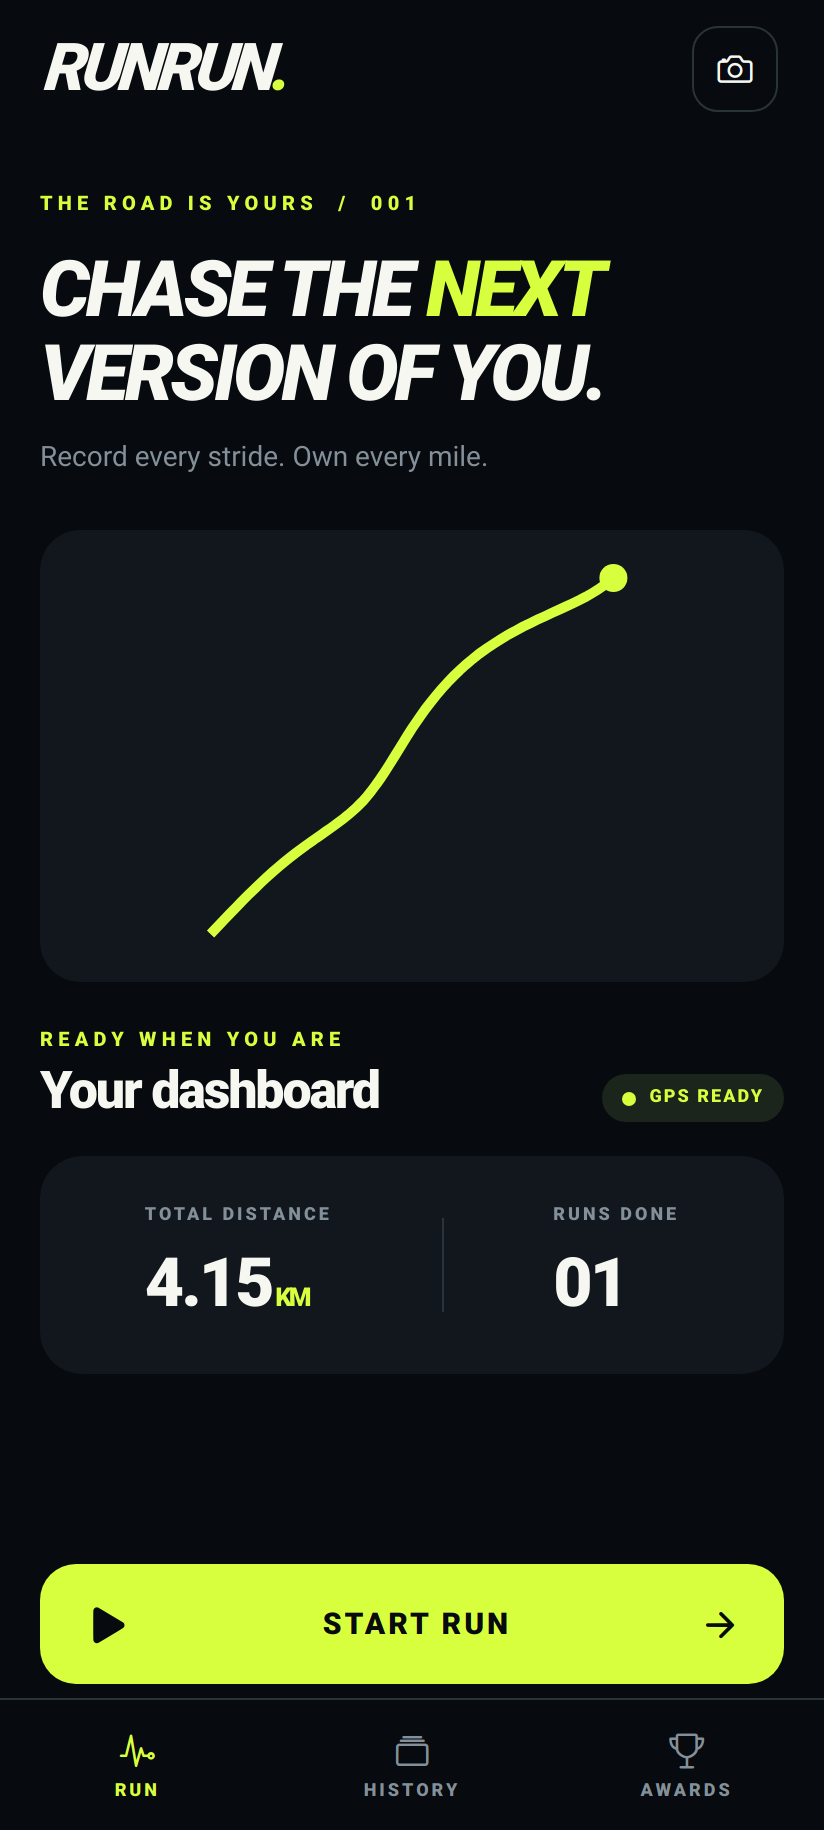
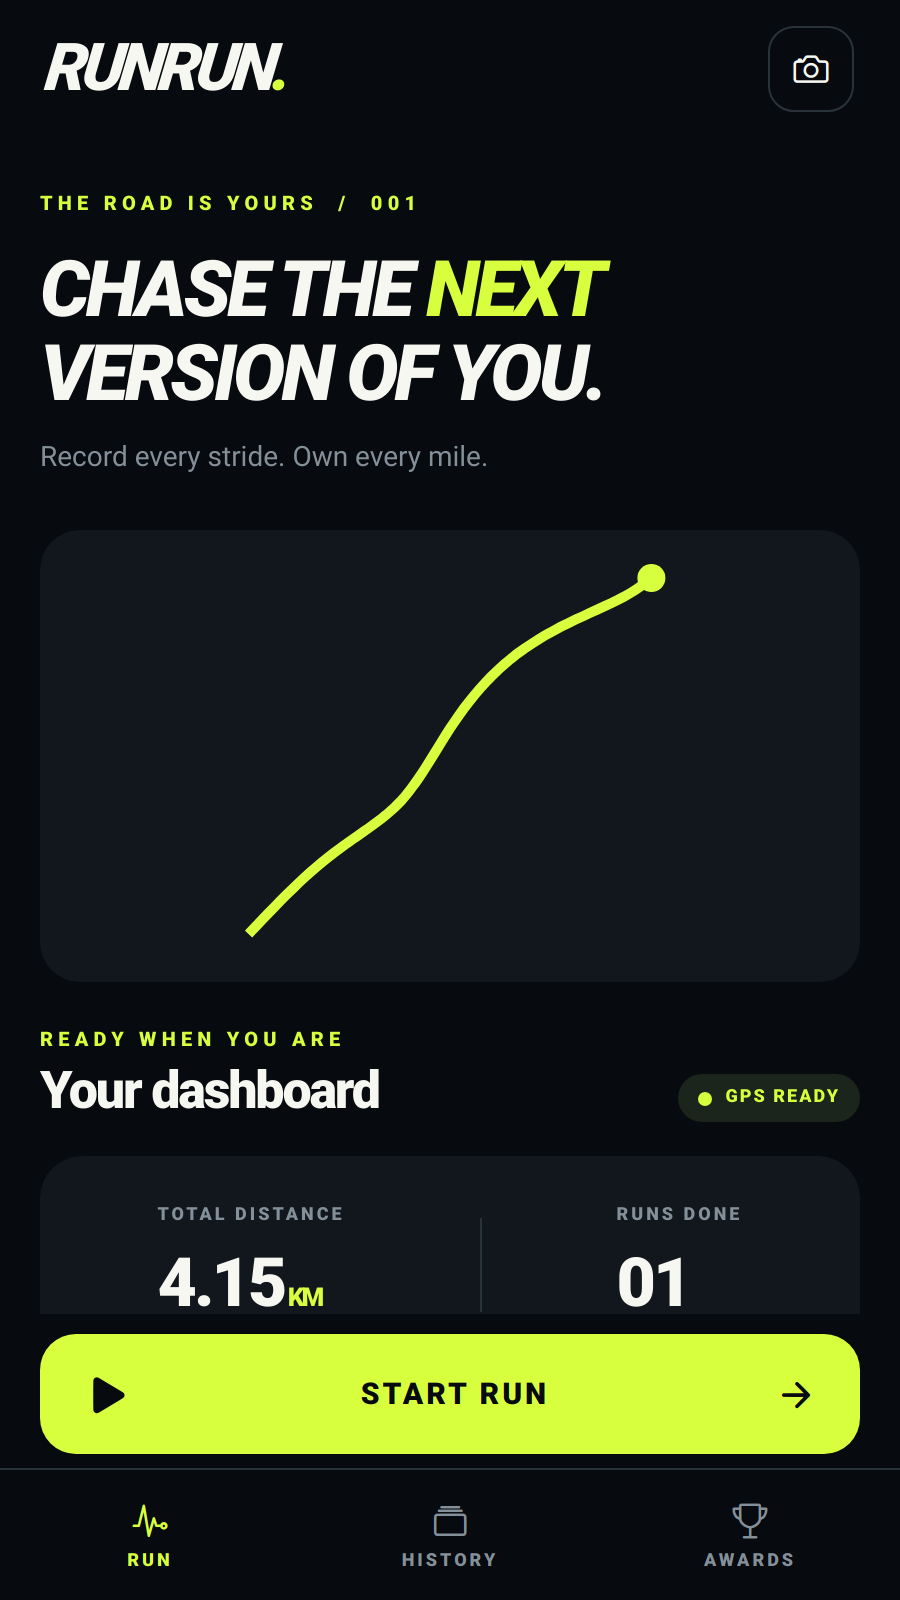
Fit Play screenshots to phone listing aspect ratio

diff --git a/store/play/README.md b/store/play/README.md
@@ -9,7 +9,7 @@ the internal testing track.
 - `play-icon-512.png`: Play listing icon.
 - `feature-graphic-1024x500.png`: feature graphic.
 - `screenshot-01-dashboard.png`, `screenshot-02-history.png`, and
-  `screenshot-03-awards.png`: 824 × 1830 captures of the real web app at a phone
+  `screenshot-03-awards.png`: 900 × 1600 captures of the real web app at a phone
   viewport. A synthetic sample run was stored locally in the browser for these
   captures. Verify the screens against a production Android build before upload.
 
